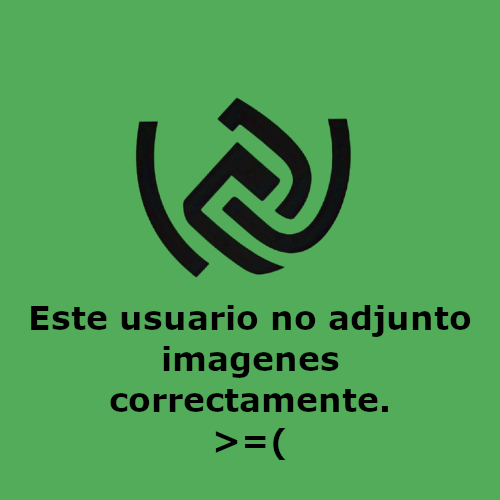
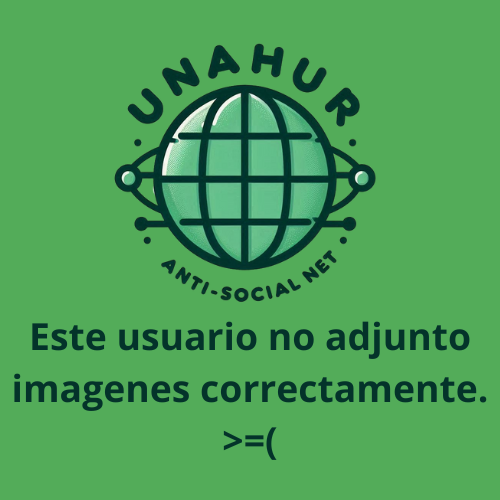
reorganiza cards de post,actualiza imagenes del assets y mejora el hover del header

Changed region(s): [[0.03, 0.09, 0.99, 0.93], [0.06, 0.6, 0.21, 0.72]]

diff --git a/losEstrategas/src/pages/Home/Home.jsx b/losEstrategas/src/pages/Home/Home.jsx
@@ -8,7 +8,7 @@ import noImage from '../../assets/noImage.png'
 import chatBubble from '../../assets/mensajero.png'
 import noComments from '../../assets/mensajeroGris.png'
 import clock from '../../assets/clock.png'
-//import user from '../../assets/usuario.png'
+import defaultUserImage from '../../assets/usuario.png';
 import wrongImage from '../../assets/wrongImage.png'
 import { useContext } from "react";
 import { UserContext } from "../../context/UserContext";
@@ -145,8 +145,14 @@ const Home = () => {
         {currentPosts.slice().map((post) => (
           <Card style={{ width: '25rem' }} key={post.id}>
             <Card.Body>
-              Fecha publicacion: {new Date(post.createdAt).toLocaleString('es-AR')}
-              <img src={clock} alt="Fecha de Publicacion" style={{ width: '20px', marginLeft: '8px', marginTop: '-4px' }} />
+              <Card.Title>
+                <img src={defaultUserImage} alt="Foto de Usuario" style={{ width: '20px', marginRight: '8px', marginTop: '-3px' }} />
+
+                {post.User.nickName}
+              </Card.Title>
+              <Card.Text>
+                {post.description}
+              </Card.Text>
             </Card.Body>
 
             <Card.Img
@@ -155,15 +161,17 @@ const Home = () => {
               src={images[post.id]?.url || noImage}
               onError={img => { img.target.onerror = null; img.target.src = wrongImage; }}
             />
-            <Card.Body>
-              <Card.Title>
-                Usuario: {post.User.nickName}
-                <img src={user} alt="Foto de Usuario" style={{ width: '20px', marginLeft: '8px', marginTop: '-3px' }} />
-              </Card.Title>
-              <Card.Text>
-                {post.description}
-              </Card.Text>
+            <Card.Body className={styles.fecha}>
+              <small>
+                {new Date(post.createdAt).toLocaleString('es-AR', { hour12: false })}
+                <img
+                  src={clock}
+                  alt="Fecha de Publicacion"
+                  style={{ width: '16px', marginLeft: '6px', marginTop: '-2px' }}
+                />
+              </small>
             </Card.Body>
+
             <ListGroup className="list-group-flush">
               <ListGroup.Item>
                 Tags: {(post.Tags.length > 0)

diff --git a/losEstrategas/src/pages/Home/Home.module.css b/losEstrategas/src/pages/Home/Home.module.css
@@ -11,24 +11,47 @@
     min-height: 500px;
     display: flex;
     flex-direction: column;
+    border-radius: 12px;
+    overflow: hidden;
+    box-shadow: 0 2px 8px rgba(0, 0, 0, 0.1); /* sombra sutil */
+    background-color: #fff; /* fondo blanco para mejor contraste */
 }
 
 .cardImg {
     height: 400px;
     object-fit: cover;
+    width: 100%;
+    border-bottom: 1px solid #e0e0e0; /* línea divisoria con la fecha */
 }
 
 .tag {
     background-color: #53ac59;
-    padding: 5px;
-    padding-bottom: 5px;
-    border-radius: 5px;
+    padding: 5px 10px;
+    border-radius: 20px;
     margin-right: 5px;
+    font-size: 0.75rem;
+    color: #fff;
+}
+
+/* ✅ Bloque optimizado para la fecha de publicación */
+.fecha {
+    padding: 6px 12px;
+    color: #555;
+    font-size: 0.8rem;
+    display: flex;
+    align-items: center;
+    gap: 6px; /* separa el texto del icono */
+    border-bottom: 1px solid #eaeaea;
+    background-color: #f9f9f9;
 }
 
 @media (max-width: 600px) {
     .feed {
         flex-direction: column;
+    }
+
+    .card {
+        width: 90%;
     }
 }
 

diff --git a/losEstrategas/src/styles/header.css b/losEstrategas/src/styles/header.css
@@ -20,6 +20,8 @@
   color:  black !important;
   transform: scale(1.1);
   box-shadow: 0 0 10px rgba(255, 255, 255, 0.4);
+  border-radius: 12px;
+  transition: 0.35s;
 }
 .navbar-brand img {
   vertical-align: middle;
@@ -30,10 +32,11 @@
   width: auto;
   transition: transform 0.3s ease, box-shadow 0.3s ease;
   filter: drop-shadow(0 0 5px rgba(255, 255, 255, 0.3));
+    border-radius: 12px;
 }
 
 .logo-navbar:hover {
-  transform: scale(1.1);
+  transform: scale(1.05);
   box-shadow: 0 0 10px rgba(255, 255, 255, 0.4);
 
 }

diff --git a/losEstrategas/src/pages/PostDetail/PostDetail.module.css b/losEstrategas/src/pages/PostDetail/PostDetail.module.css
@@ -75,3 +75,18 @@
         border-top: 3px solid #53ac59;
     }
 }
+.cardImg {
+  height: 200px;
+  object-fit: cover;
+  border-top-left-radius: 10px;
+  border-top-right-radius: 10px;
+  width: 100%;
+}
+
+.cardImgPlaceholder {
+  height: 200px;
+  background-color: #d3d3d3; 
+  border-top-left-radius: 10px;
+  border-top-right-radius: 10px;
+  width: 100%;
+}
